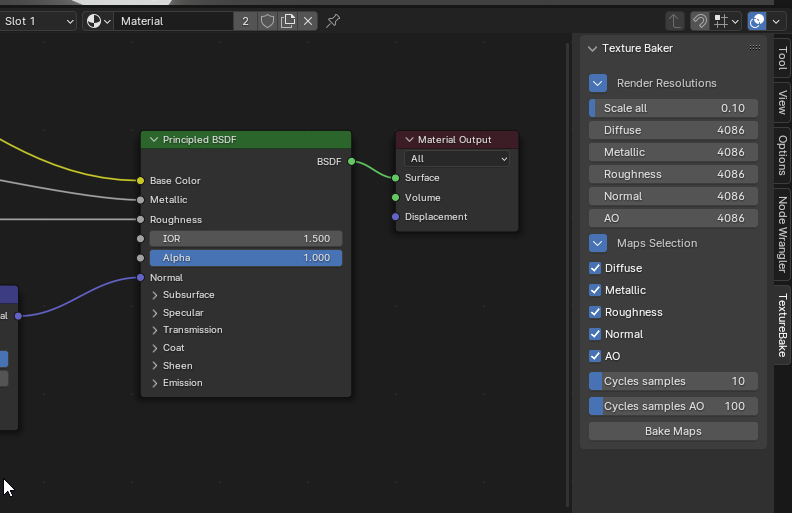
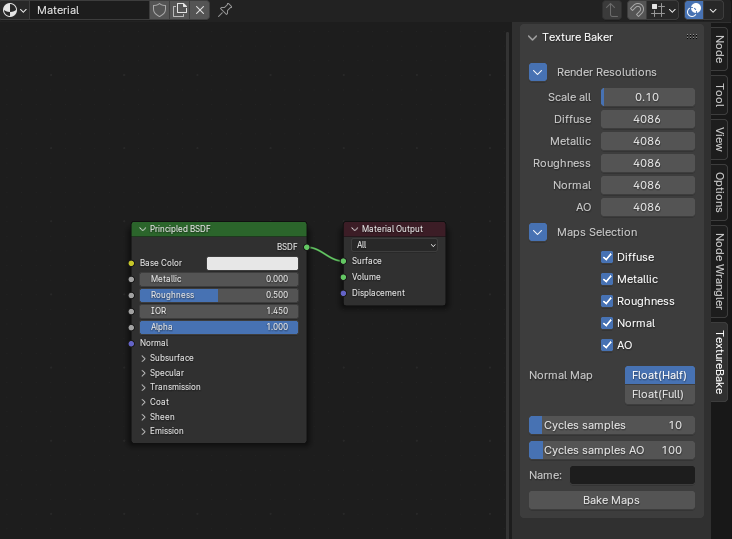
Updated bake Add-In

diff --git a/HelperFiles/Blender/bake_maps/bake.py b/HelperFiles/Blender/bake_maps/bake.py
@@ -35,7 +35,7 @@
 bl_info = {
     "name": "Bake Textures",
     "author": "zulu",
-    "version": (1, 0, 0),
+    "version": (1, 0, 1),
     "blender": (4, 1, 1),
     "location": "Node Editor > Sidebar > TextureBake",
     "description": "Bakes Textures",
@@ -63,6 +63,7 @@ bl_info = {
 # give Python access to Blender's functionality
 import bpy
 import time
+from pathlib import Path
 
 from bpy.props import (StringProperty,
                        BoolProperty,
@@ -167,7 +168,16 @@ class Bake_Settings(PropertyGroup):
         default = True
         )
         
-
+        
+        
+    my_enum_normal_bitdepth : EnumProperty(
+        name = "Normal Map",
+        description = "Normal map: Bit depth per channel",
+        items = [
+            ("16" , "Float(Half)" , "16-bit color channels"),
+            ("32" , "Float(Full)" , "32-bit color channels")
+        ]
+        )
     my_int_cycles_samples : IntProperty(
         name = "Set number of cycles samples",
         description="Set number of cycles samples",
@@ -182,6 +192,14 @@ class Bake_Settings(PropertyGroup):
         min = 1,
         max = 1000
         )
+      
+        
+    #Path(bpy.path.basename(bpy.data.filepath)).stem    
+    my_file_name: bpy.props.StringProperty(name="File name",
+                                        description="Additional string added at beginning of filenames",
+                                        default="",
+                                        maxlen=256,
+                                        subtype="NONE")
 #################################################################################
 
 
@@ -218,6 +236,8 @@ class NODE_EDITOR_PT_bake_panel(bpy.types.Panel):  # class naming convention ‘
         row.alignment = 'RIGHT'
   
         # subpanel caption
+        layout.use_property_split = True
+        layout.use_property_decorate = False
         row = layout.row()
         icon = 'DOWNARROW_HLT' if context.scene.subpanel_status_resolutions else 'RIGHTARROW'
         row.prop(context.scene, 'subpanel_status_resolutions', icon=icon, icon_only=True)
@@ -253,14 +273,37 @@ class NODE_EDITOR_PT_bake_panel(bpy.types.Panel):  # class naming convention ‘
             col1.prop(mytool, "my_bool_NORMAL", text="Normal") 
             col1.prop(mytool, "my_bool_AO", text="AO")
           
+        if context.scene.baking_maps_tool.my_bool_NORMAL:
+            layout.separator(factor=0) 
+            layout.use_property_split = False
+            layout.use_property_decorate = False
+            row = layout.row(align=True)
+            row.label(text='Normal Map')
+            col = row.column(align=True)
+            col.scale_x = 0.75
+            col.use_property_split = False
+            col.prop(mytool, "my_enum_normal_bitdepth", expand=True)
+         
+        layout.separator(factor=0) 
+        layout.use_property_split = False
+        layout.use_property_decorate = False
+        
         layout.prop(mytool, "my_int_cycles_samples", text="Cycles samples", slider=True)
-        layout.prop(mytool, "my_int_cycles_samples_AO", text="Cycles samples AO", slider=True)
+        if context.scene.baking_maps_tool.my_bool_AO:
+            layout.prop(mytool, "my_int_cycles_samples_AO", text="Cycles samples AO", slider=True)
 
-        row = layout.row()
-        row.alignment = 'CENTER'
-        col = row.column()
-        col.scale_x = 1
-        col.operator("object.bake_maps", text="Bake Maps")   
+        layout.prop(mytool, "my_file_name", text="Name")
+
+        if (context.scene.baking_maps_tool.my_bool_DIFFUSE or
+           context.scene.baking_maps_tool.my_bool_METALLIC or
+           context.scene.baking_maps_tool.my_bool_ROUGHNESS or
+           context.scene.baking_maps_tool.my_bool_NORMAL or
+           context.scene.baking_maps_tool.my_bool_AO ):     
+            row = layout.row()
+            row.alignment = 'CENTER'
+            col = row.column()
+            col.scale_x = 1 
+            col.operator("object.bake_maps", text="Bake Maps")   
 #################################################################################
 
 
@@ -281,7 +324,8 @@ class NODE_EDITOR_PT_bake_panel(bpy.types.Panel):  # class naming convention ‘
 class Bake_Routines(bpy.types.Operator):
     bl_idname = "object.bake_maps"
     bl_label = "Bake"
-
+    bl_description = "Baking might take several minutes..."
+    
     def execute(self, context):
         print("ok")
         
@@ -303,8 +347,14 @@ class Bake_Routines(bpy.types.Operator):
         par['enable']['ROUGHNESS']     = context.scene.baking_maps_tool.my_bool_ROUGHNESS
         par['enable']['NORMAL']        = context.scene.baking_maps_tool.my_bool_NORMAL
         par['enable']['AO']            = context.scene.baking_maps_tool.my_bool_AO
+        par['normal_bitdepth'] 	       = context.scene.baking_maps_tool.my_enum_normal_bitdepth 
         par['cycles_samples'] 		   = context.scene.baking_maps_tool.my_int_cycles_samples
-        par['cycles_samples_AO'] 	   = context.scene.baking_maps_tool.my_int_cycles_samples_AO
+        par['cycles_samples_AO'] 	   = context.scene.baking_maps_tool.my_int_cycles_samples_AO  
+        print(context.scene.baking_maps_tool.my_file_name)
+        if context.scene.baking_maps_tool.my_file_name == "":
+            par['my_file_name']        = ""
+        else:  
+            par['my_file_name'] 	   = context.scene.baking_maps_tool.my_file_name + '_'
         #############################################################################################
 
 
@@ -344,7 +394,13 @@ class Bake_Routines(bpy.types.Operator):
         # bake
         #############################################################################################  
         obj = bpy.context.active_object
-        img = bpy.data.images.new(obj.name + '_BakedTextureTemp', int(par['img_size']['DIFFUSE']*par['img_size']['scale_all']), int(par['img_size']['DIFFUSE']*par['img_size']['scale_all']))
+        img = bpy.data.images.new(  obj.name + '_BakedTextureTemp', 
+                                    int(par['img_size']['DIFFUSE']*par['img_size']['scale_all']), 
+                                    int(par['img_size']['DIFFUSE']*par['img_size']['scale_all']), 
+                                    alpha=False,
+                                    float_buffer=True,
+                                    is_data=True,
+        )
 
 
         #----------------------------------------------------------------------------------
@@ -408,8 +464,13 @@ class Bake_Routines(bpy.types.Operator):
             img.generated_width = int(par['img_size']['DIFFUSE']*par['img_size']['scale_all'])
             img.generated_height = int(par['img_size']['DIFFUSE']*par['img_size']['scale_all'])
             img.colorspace_settings.name = 'sRGB'
+            settings = context.scene.render.image_settings 
+            settings.file_format = 'PNG'  # Options: 'BMP', 'IRIS', 'PNG', 'JPEG', 'JPEG2000', 'TARGA', 'TARGA_RAW', 'CINEON', 'DPX', 'OPEN_EXR_MULTILAYER', 'OPEN_EXR', 'HDR', 'TIFF', 'WEBP'
+            settings.color_mode = 'RGB'  # Options: 'BW', 'RGB', 'RGBA' (depends on file_format)
+            settings.color_depth = '8'  # Options: '8', '10', '12', '16', '32' (depends on file_format)
+            settings.compression = 20  # Range: 0 - 100
             bpy.ops.object.bake(type='DIFFUSE', pass_filter={'COLOR'}, save_mode='EXTERNAL')
-            img.save_render(filepath=bpy.path.abspath('//'+obj.name + '___baked_COLOR.png'))
+            img.save_render(filepath=bpy.path.abspath('//' + par['my_file_name'] + obj.name + '_Color.png'))
         #----------------------------------------------------------------------------------
         # METALLIC - use/connect to emission color input to bake
         if(par['enable']['METALLIC']):
@@ -422,8 +483,12 @@ class Bake_Routines(bpy.types.Operator):
             mat.node_tree.nodes["Principled BSDF"].inputs['Emission Strength'].default_value = 1    
                               
             img.colorspace_settings.name = 'Non-Color'
+            settings.file_format = 'PNG'  # Options: 'BMP', 'IRIS', 'PNG', 'JPEG', 'JPEG2000', 'TARGA', 'TARGA_RAW', 'CINEON', 'DPX', 'OPEN_EXR_MULTILAYER', 'OPEN_EXR', 'HDR', 'TIFF', 'WEBP'
+            settings.color_mode = 'RGB'  # Options: 'BW', 'RGB', 'RGBA' (depends on file_format)
+            settings.color_depth = '8'  # Options: '8', '10', '12', '16', '32' (depends on file_format)
+            settings.compression = 20  # Range: 0 - 100
             bpy.ops.object.bake(type='EMIT', save_mode='EXTERNAL') # use EMIT but bake METALLIC info
-            img.save_render(filepath=bpy.path.abspath('//'+obj.name + '___baked_METALLIC.png'))   
+            img.save_render(filepath=bpy.path.abspath('//' +  par['my_file_name'] + obj.name + '_Metallic.png'))   
 
             if restore['metallic_link_found']:
                 # remove emission again
@@ -437,16 +502,27 @@ class Bake_Routines(bpy.types.Operator):
             img.generated_width = int(par['img_size']['ROUGHNESS']*par['img_size']['scale_all'])
             img.generated_height = int(par['img_size']['ROUGHNESS']*par['img_size']['scale_all'])
             img.colorspace_settings.name = 'Non-Color'
+            settings.file_format = 'PNG'  # Options: 'BMP', 'IRIS', 'PNG', 'JPEG', 'JPEG2000', 'TARGA', 'TARGA_RAW', 'CINEON', 'DPX', 'OPEN_EXR_MULTILAYER', 'OPEN_EXR', 'HDR', 'TIFF', 'WEBP'
+            settings.color_mode = 'RGB'  # Options: 'BW', 'RGB', 'RGBA' (depends on file_format)
+            settings.color_depth = '8'  # Options: '8', '10', '12', '16', '32' (depends on file_format)
+            settings.compression = 20  # Range: 0 - 100
             bpy.ops.object.bake(type='ROUGHNESS', save_mode='EXTERNAL')
-            img.save_render(filepath=bpy.path.abspath('//'+obj.name + '___baked_ROUGHNESS.png')) 
+            img.save_render(filepath=bpy.path.abspath('//' + par['my_file_name'] + obj.name + '_Roughness.png')) 
         #----------------------------------------------------------------------------------
         # NORMAL
         if(par['enable']['NORMAL']):
             img.generated_width = int(par['img_size']['NORMAL']*par['img_size']['scale_all'])
             img.generated_height = int(par['img_size']['NORMAL']*par['img_size']['scale_all'])
             img.colorspace_settings.name = 'Non-Color'
+            img.use_generated_float = True
+            settings = context.scene.render.image_settings 
+            settings.file_format = 'OPEN_EXR'  # Options: 'BMP', 'IRIS', 'PNG', 'JPEG', 'JPEG2000', 'TARGA', 'TARGA_RAW', 'CINEON', 'DPX', 'OPEN_EXR_MULTILAYER', 'OPEN_EXR', 'HDR', 'TIFF', 'WEBP'
+            settings.color_mode = 'RGB'  # Options: 'BW', 'RGB', 'RGBA' (depends on file_format)
+            settings.color_depth = context.scene.baking_maps_tool.my_enum_normal_bitdepth  # Options: '8', '10', '12', '16', '32' (depends on file_format)
+            settings.compression = 0  # Range: 0 - 100
+            print(f' has_linear_colorspace: ' + str(settings.has_linear_colorspace))
             bpy.ops.object.bake(type='NORMAL', save_mode='EXTERNAL')
-            img.save_render(filepath=bpy.path.abspath('//'+obj.name + '___baked_NORMAL.png')) 
+            img.save_render(filepath=bpy.path.abspath('//' + par['my_file_name'] + obj.name + '_Normal.exr')) 
         #----------------------------------------------------------------------------------
         # AO
         if(par['enable']['AO']):
@@ -456,7 +532,11 @@ class Bake_Routines(bpy.types.Operator):
             img.generated_height = int(par['img_size']['AO']*par['img_size']['scale_all'])
             img.colorspace_settings.name = 'Non-Color'
             bpy.ops.object.bake(type='AO', save_mode='EXTERNAL')
-            img.save_render(filepath=bpy.path.abspath('//'+obj.name + '___baked_AO.png'))   
+            settings.file_format = 'PNG'  # Options: 'BMP', 'IRIS', 'PNG', 'JPEG', 'JPEG2000', 'TARGA', 'TARGA_RAW', 'CINEON', 'DPX', 'OPEN_EXR_MULTILAYER', 'OPEN_EXR', 'HDR', 'TIFF', 'WEBP'
+            settings.color_mode = 'RGB'  # Options: 'BW', 'RGB', 'RGBA' (depends on file_format)
+            settings.color_depth = '16'  # Options: '8', '10', '12', '16', '32' (depends on file_format)
+            settings.compression = 20  # Range: 0 - 100
+            img.save_render(filepath=bpy.path.abspath('//' + par['my_file_name'] + obj.name + '_AO.png'))   
             print('AO baking time is:', "{:.2f}".format(time.time()-t), 'sec')
         #############################################################################################  
 
